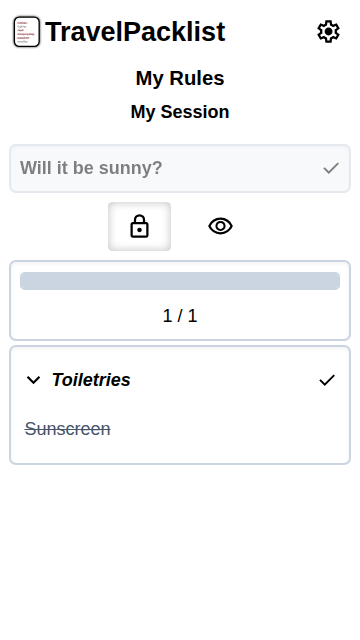
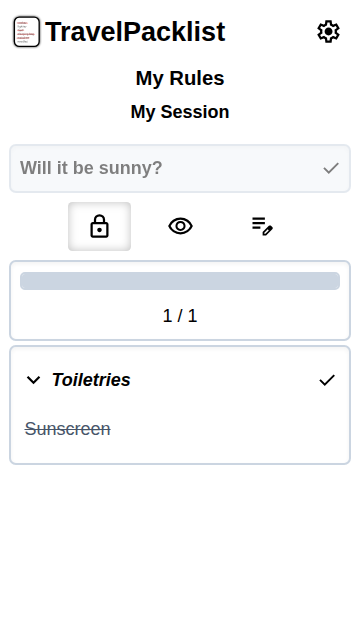
feat: notes for sessions

diff --git a/apps/travel-packlist/src/app/pages/packlist/display-notes/display-notes.component.ts b/apps/travel-packlist/src/app/pages/packlist/display-notes/display-notes.component.ts
@@ -1,0 +1,66 @@
+import {
+  afterNextRender,
+  ChangeDetectionStrategy,
+  Component,
+  effect,
+  ElementRef,
+  inject,
+  linkedSignal,
+  signal,
+  viewChild,
+} from '@angular/core';
+import { form, FormField, readonly } from '@angular/forms/signals';
+import { IconEditComponent } from '@travel-packlist/icons';
+import { GLOBAL_STATE } from '@travel-packlist/state';
+
+@Component({
+  selector: 'app-display-notes',
+  imports: [FormField, IconEditComponent],
+  templateUrl: './display-notes.component.html',
+  changeDetection: ChangeDetectionStrategy.OnPush,
+})
+export class DisplayNotesComponent {
+  private state = inject(GLOBAL_STATE);
+  private readonly notesTextArea =
+    viewChild<ElementRef<HTMLTextAreaElement>>('notes');
+
+  readonly visible = this.state.packlist.isNotesVisible;
+
+  protected readonly editMode = signal(false);
+  private readonly notes = linkedSignal(
+    () => this.state.packlist.sessionNotes() ?? '',
+  );
+  protected readonly control = form(this.notes, (path) => {
+    readonly(path, () => !this.editMode());
+  });
+
+  private restoreHeight() {
+    const notesElement = this.notesTextArea();
+    if (notesElement) {
+      notesElement.nativeElement.style.height = 'auto';
+      notesElement.nativeElement.style.height =
+        notesElement.nativeElement.scrollHeight.toFixed(0) + 'px';
+    }
+  }
+
+  constructor() {
+    effect(() => {
+      if (this.editMode()) {
+        this.state.packlist.setSessionNotes(this.notes());
+        this.restoreHeight();
+      }
+    });
+
+    afterNextRender(() => {
+      this.restoreHeight();
+    });
+
+    effect(() => {
+      if (this.editMode() || this.visible()) {
+        setTimeout(() => {
+          this.restoreHeight();
+        });
+      }
+    });
+  }
+}

diff --git a/apps/travel-packlist/src/app/pages/packlist/display-notes/display-notes.component.html b/apps/travel-packlist/src/app/pages/packlist/display-notes/display-notes.component.html
@@ -1,0 +1,26 @@
+<!-- oninput="
+      this.style.height = '';
+      this.style.height = this.scrollHeight + 'px';
+    " i18n-oninput -->
+<div class="relative" [class.hidden]="!visible()">
+  <textarea
+    #notes
+    class="card w-full resize-none overflow-hidden"
+    aria-label="session notes"
+    i18n-aria-label
+    placeholder="insert notes here"
+    i18n-placeholder
+    [formField]="control"
+    (blur)="editMode.set(false)"
+  ></textarea>
+  @if (!editMode()) {
+    <button
+      iconEdit
+      type="button"
+      class="absolute top-1 right-1 bg-white/50 dark:bg-slate-900/50"
+      aria-label="edit session notes"
+      i18n-aria-label
+      (click)="editMode.set(true); notes.focus()"
+    ></button>
+  }
+</div>

diff --git a/libs/state/src/lib/slices/packlist-state.ts b/libs/state/src/lib/slices/packlist-state.ts
@@ -50,6 +50,8 @@ interface SessionState {
   statsVisible: ItemStats | undefined;
   createdAt: number;
   modifiedAt: number;
+  notes?: string;
+  notesVisible: boolean;
 }
 
 export type SavedSession = Pick<SessionState, 'sessionName' | 'modifiedAt'> & {
@@ -65,6 +67,7 @@ function createNewSession(): SessionState {
     answersLocked: false,
     hideCompleted: false,
     statsVisible: undefined,
+    notesVisible: false,
     createdAt: Date.now(),
     modifiedAt: Date.now(),
   };
@@ -98,6 +101,22 @@ export const packlistState = ({
     updateSession((old) => ({
       ...old,
       sessionName: name,
+      modifiedAt: Date.now(),
+    }));
+  }
+
+  function setSessionNotes(notes: string | undefined) {
+    updateSession((old) => ({
+      ...old,
+      notes,
+      modifiedAt: Date.now(),
+    }));
+  }
+
+  function setNotesVisible(visible: boolean) {
+    updateSession((old) => ({
+      ...old,
+      notesVisible: visible,
       modifiedAt: Date.now(),
     }));
   }
@@ -367,6 +386,12 @@ export const packlistState = ({
       /** storage: the session name of the packlist */
       sessionName: computed(() => session().sessionName),
       setSessionName,
+      /** storage: the session notes of the packlist */
+      sessionNotes: computed(() => session().notes),
+      setSessionNotes,
+      /** storage: whether the session notes are visible */
+      isNotesVisible: computed(() => session().notesVisible),
+      setNotesVisible,
       /** storage: the answers from checked questions in the packlist */
       answers: computed(() => session().answers),
       updateAnswer,

diff --git a/apps/travel-packlist/src/app/pages/packlist/packlist-status/packlist-toolbar/packlist-toolbar.component.html b/apps/travel-packlist/src/app/pages/packlist/packlist-status/packlist-toolbar/packlist-toolbar.component.html
@@ -56,5 +56,18 @@
         (click)="toggleStats('heaviestItems')"
       ></button>
     }
+    @if (displayNotesButton()) {
+      <button
+        iconEditNote
+        iconClass="h-6 w-6"
+        type="button"
+        class="link"
+        aria-label="Edit session notes"
+        i18n-aria-label
+        [attr.aria-pressed]="notesVisible()"
+        [class.pressed]="notesVisible()"
+        (click)="toggleNotes()"
+      ></button>
+    }
   </div>
 }

diff --git a/apps/travel-packlist/src/app/pages/packlist/packlist-status/packlist-toolbar/packlist-toolbar.component.ts b/apps/travel-packlist/src/app/pages/packlist/packlist-status/packlist-toolbar/packlist-toolbar.component.ts
@@ -11,6 +11,7 @@ import {
   IconLockOpenComponent,
   IconPieChartComponent,
   IconVisibleComponent,
+  IconEditNoteComponent,
 } from '@travel-packlist/icons';
 import { GLOBAL_STATE, ItemStats } from '@travel-packlist/state';
 
@@ -23,6 +24,7 @@ import { GLOBAL_STATE, ItemStats } from '@travel-packlist/state';
     IconPieChartComponent,
     IconInvisibleComponent,
     IconVisibleComponent,
+    IconEditNoteComponent,
   ],
   templateUrl: './packlist-toolbar.component.html',
   changeDetection: ChangeDetectionStrategy.OnPush,
@@ -59,5 +61,15 @@ export class PacklistToolbarComponent {
     } else {
       this.state.packlist.setStatsVisible(stat);
     }
+  }
+
+  readonly displayNotesButton = computed(
+    () => this.state.packlist.currentSlot() > 0,
+  );
+
+  readonly notesVisible = this.state.packlist.isNotesVisible;
+
+  toggleNotes() {
+    this.state.packlist.setNotesVisible(!this.notesVisible());
   }
 }

diff --git a/apps/travel-packlist/src/app/pages/packlist/packlist.component.ts b/apps/travel-packlist/src/app/pages/packlist/packlist.component.ts
@@ -8,6 +8,7 @@ import { IconProgressActivityComponent } from '@travel-packlist/icons';
 import { GLOBAL_STATE } from '@travel-packlist/state';
 
 import { DisplayItemsComponent } from './display-items/display-items.component';
+import { DisplayNotesComponent } from './display-notes/display-notes.component';
 import { DisplayQuestionsComponent } from './display-questions/display-questions.component';
 import { DisplayTitleComponent } from './display-title/display-title.component';
 import { PacklistStatusComponent } from './packlist-status/packlist-status.component';
@@ -22,6 +23,7 @@ import { PacklistToolbarComponent } from './packlist-status/packlist-toolbar/pac
     PacklistToolbarComponent,
     IconProgressActivityComponent,
     DisplayTitleComponent,
+    DisplayNotesComponent,
   ],
   templateUrl: './packlist.component.html',
   changeDetection: ChangeDetectionStrategy.OnPush,

diff --git a/apps/travel-packlist/src/app/pages/packlist/packlist.component.html b/apps/travel-packlist/src/app/pages/packlist/packlist.component.html
@@ -7,6 +7,7 @@
   <app-display-questions />
   <app-packlist-toolbar />
   <app-packlist-status />
+  <app-display-notes />
   <app-display-items />
 } @else if (rulesMode() === 'local') {
   <div class="flex flex-col items-center">